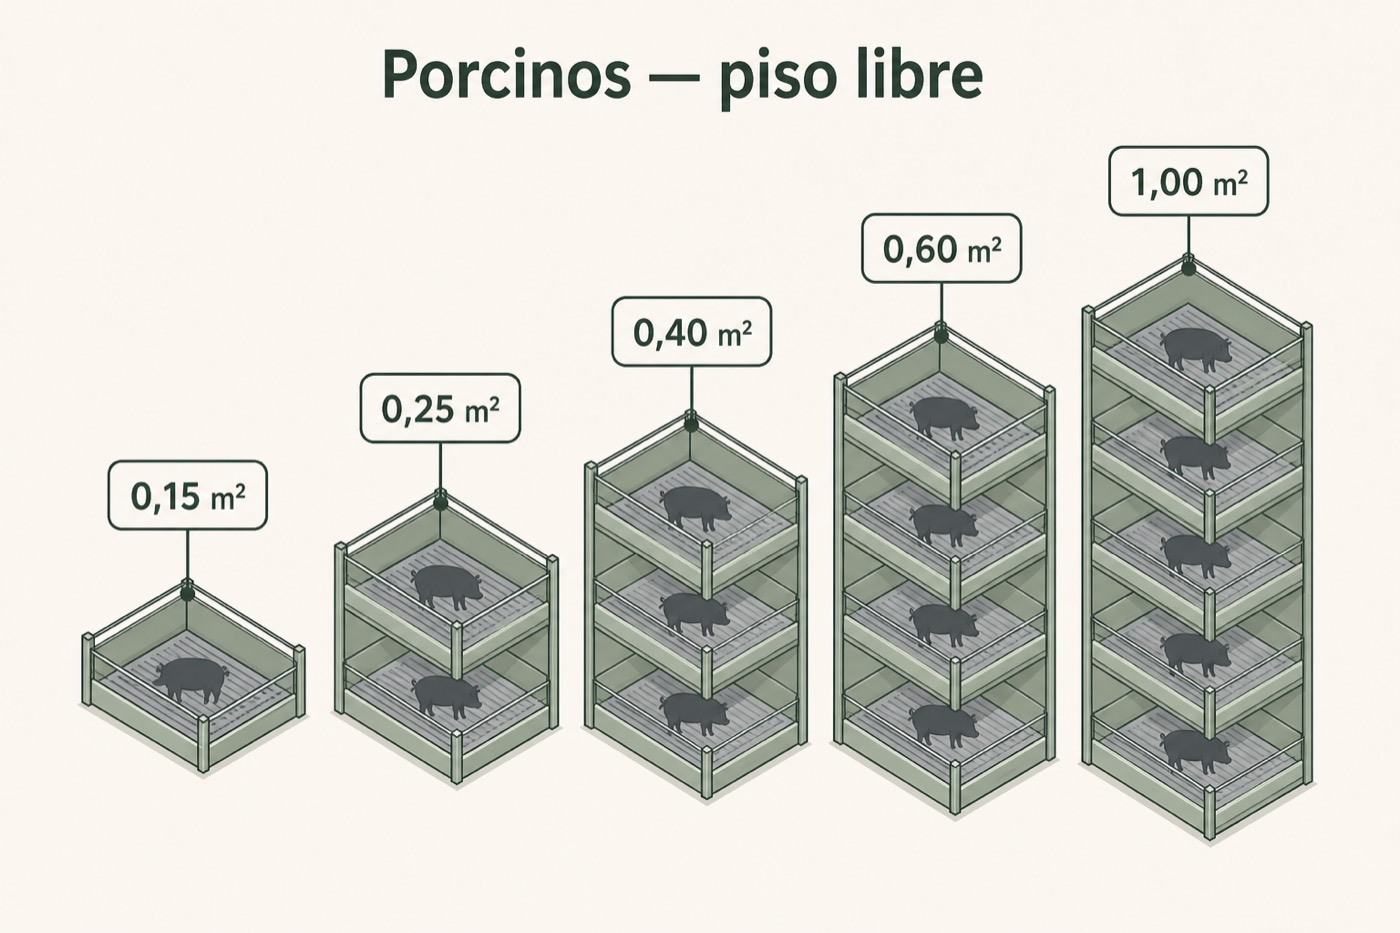
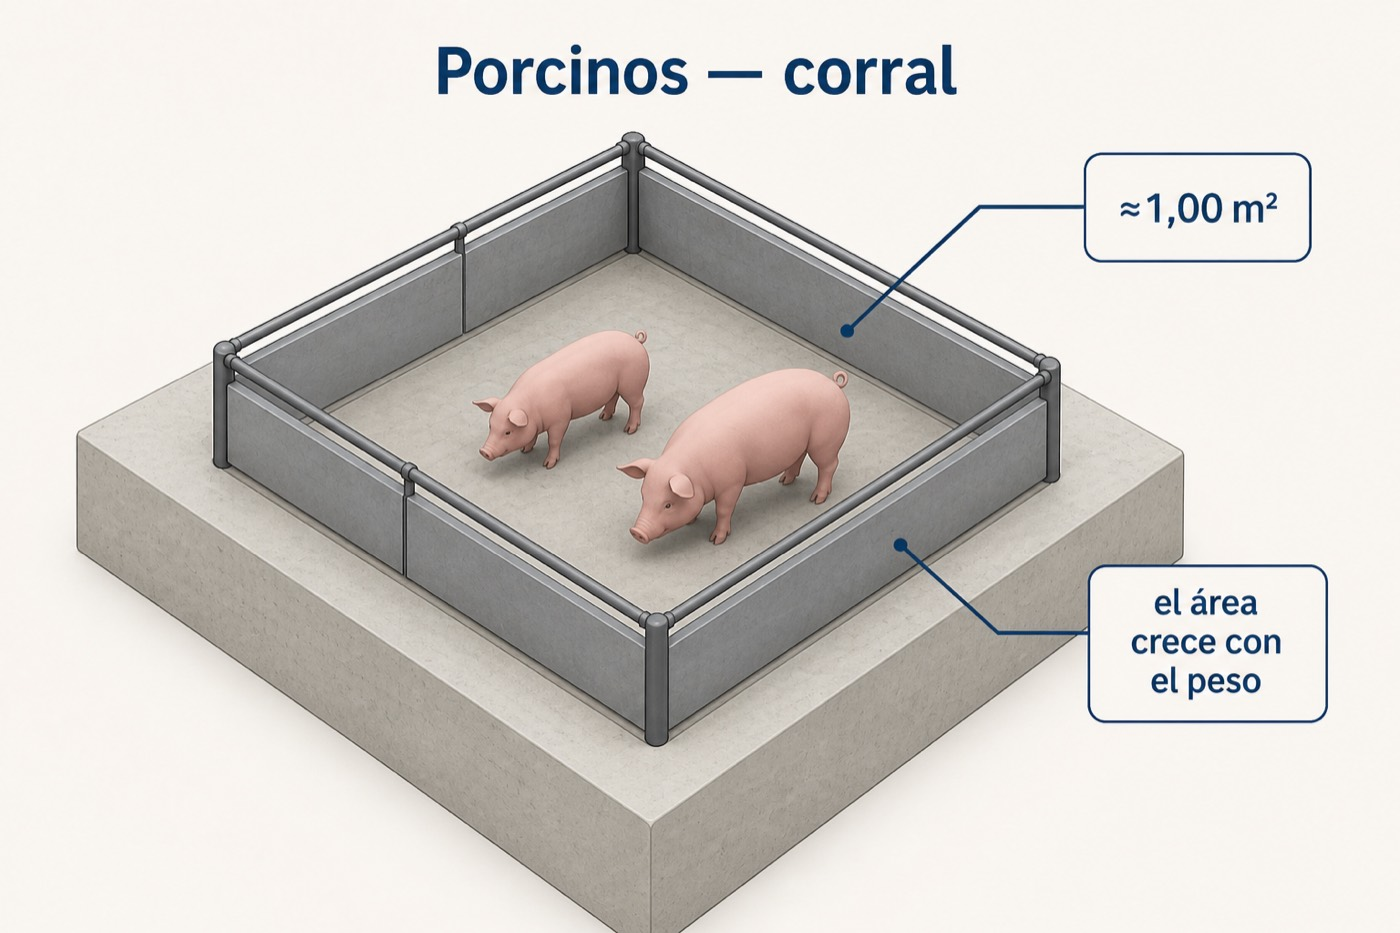
Corregir diagrama de porcinos: un solo corral 3D.
Sustituye las torres apiladas por un corral isométrico genérico
alineado con el resto de la sección; SW atlas-v53.

diff --git a/sw.js b/sw.js
@@ -3,7 +3,7 @@
 // enlaces clínicos) para que la app funcione sin red tras la primera visita.
 // Las imágenes de razas/enfermedades usan stale-while-revalidate en una caché
 // aparte para no invalidar el shell al renovar versión.
-const CACHE_VERSION = 'atlas-v52';
+const CACHE_VERSION = 'atlas-v53';
 const STATIC_CACHE = `${CACHE_VERSION}-static`;
 const IMAGE_CACHE = `${CACHE_VERSION}-images`;
 const CURRENT_CACHES = [STATIC_CACHE, IMAGE_CACHE];

diff --git a/tests/test_criaderos.rb b/tests/test_criaderos.rb
@@ -75,7 +75,7 @@ class CriaderosSectionTest < Minitest::Test
 
   def test_sw_precache_y_version
     assert_includes @sw, './data/criaderos.js'
-    assert_match(/CACHE_VERSION\s*=\s*'atlas-v(?:5[2-9]|[6-9]\d|\d{3,})'/, @sw)
+    assert_match(/CACHE_VERSION\s*=\s*'atlas-v(?:5[3-9]|[6-9]\d|\d{3,})'/, @sw)
   end
 
   def test_sitemap_incluye_criaderos

diff --git a/tests/test_evaluacion_filtros.rb b/tests/test_evaluacion_filtros.rb
@@ -105,7 +105,7 @@ class EvaluacionFiltrosTest < Minitest::Test
 
   def test_sw_cache_bump
     sw = File.read(File.join(@root, 'sw.js'))
-    assert_includes sw, "CACHE_VERSION = 'atlas-v52'"
+    assert_includes sw, "CACHE_VERSION = 'atlas-v53'"
     assert_includes sw, 'networkFirstWithCache'
     assert_includes sw, 'isAppShellRequest'
   end
